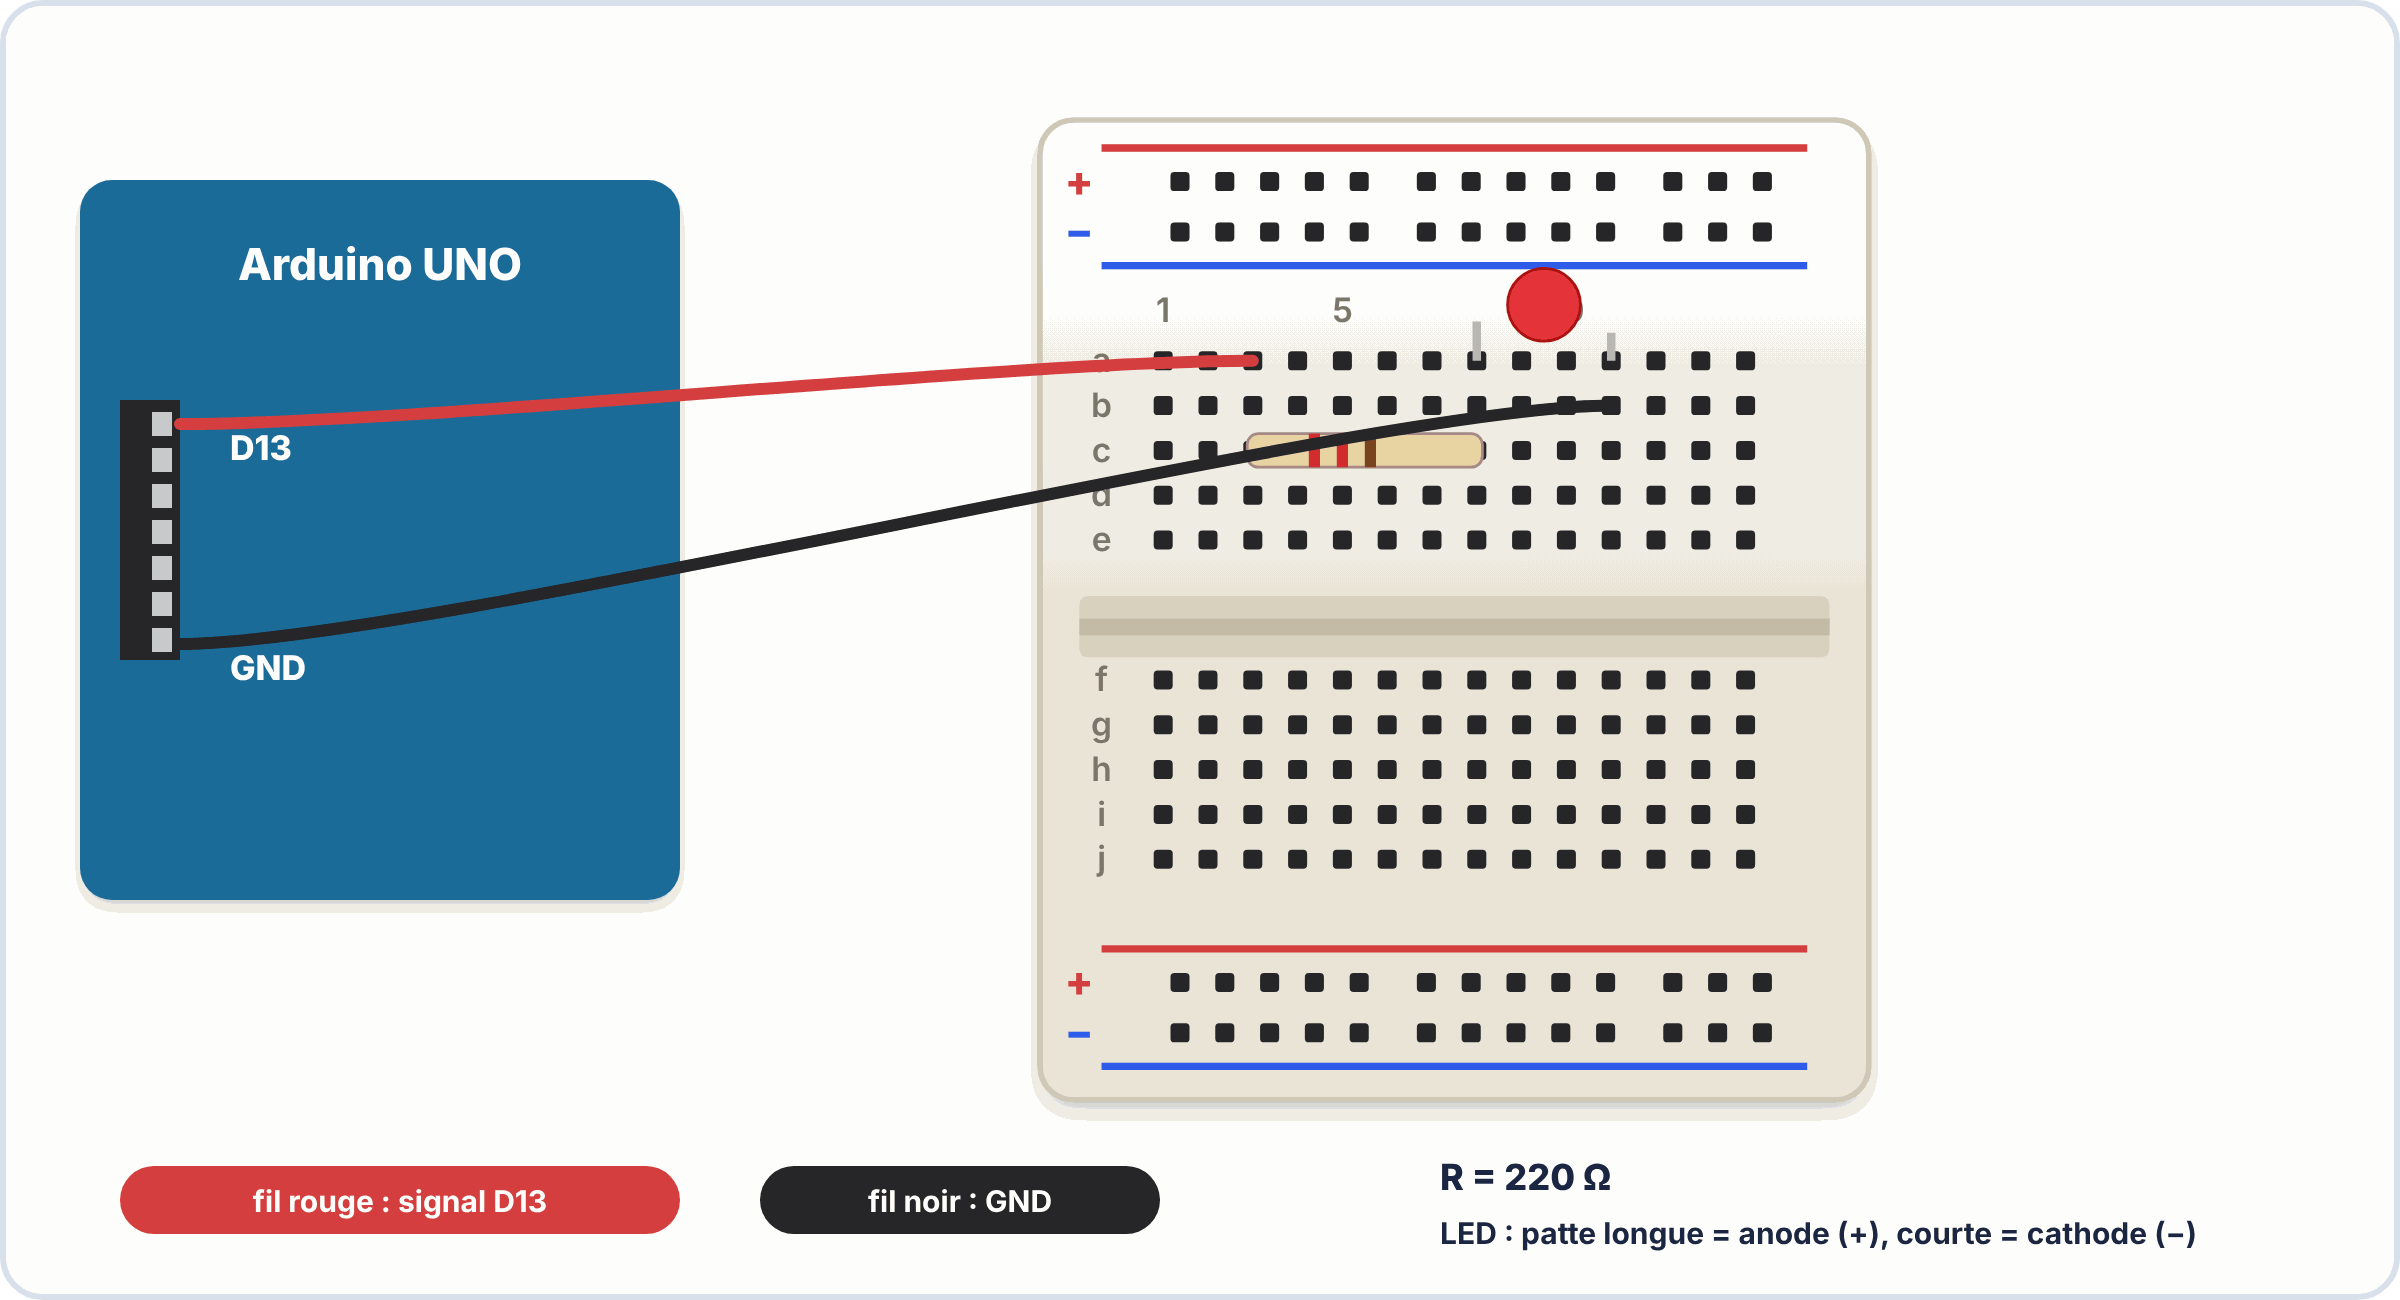
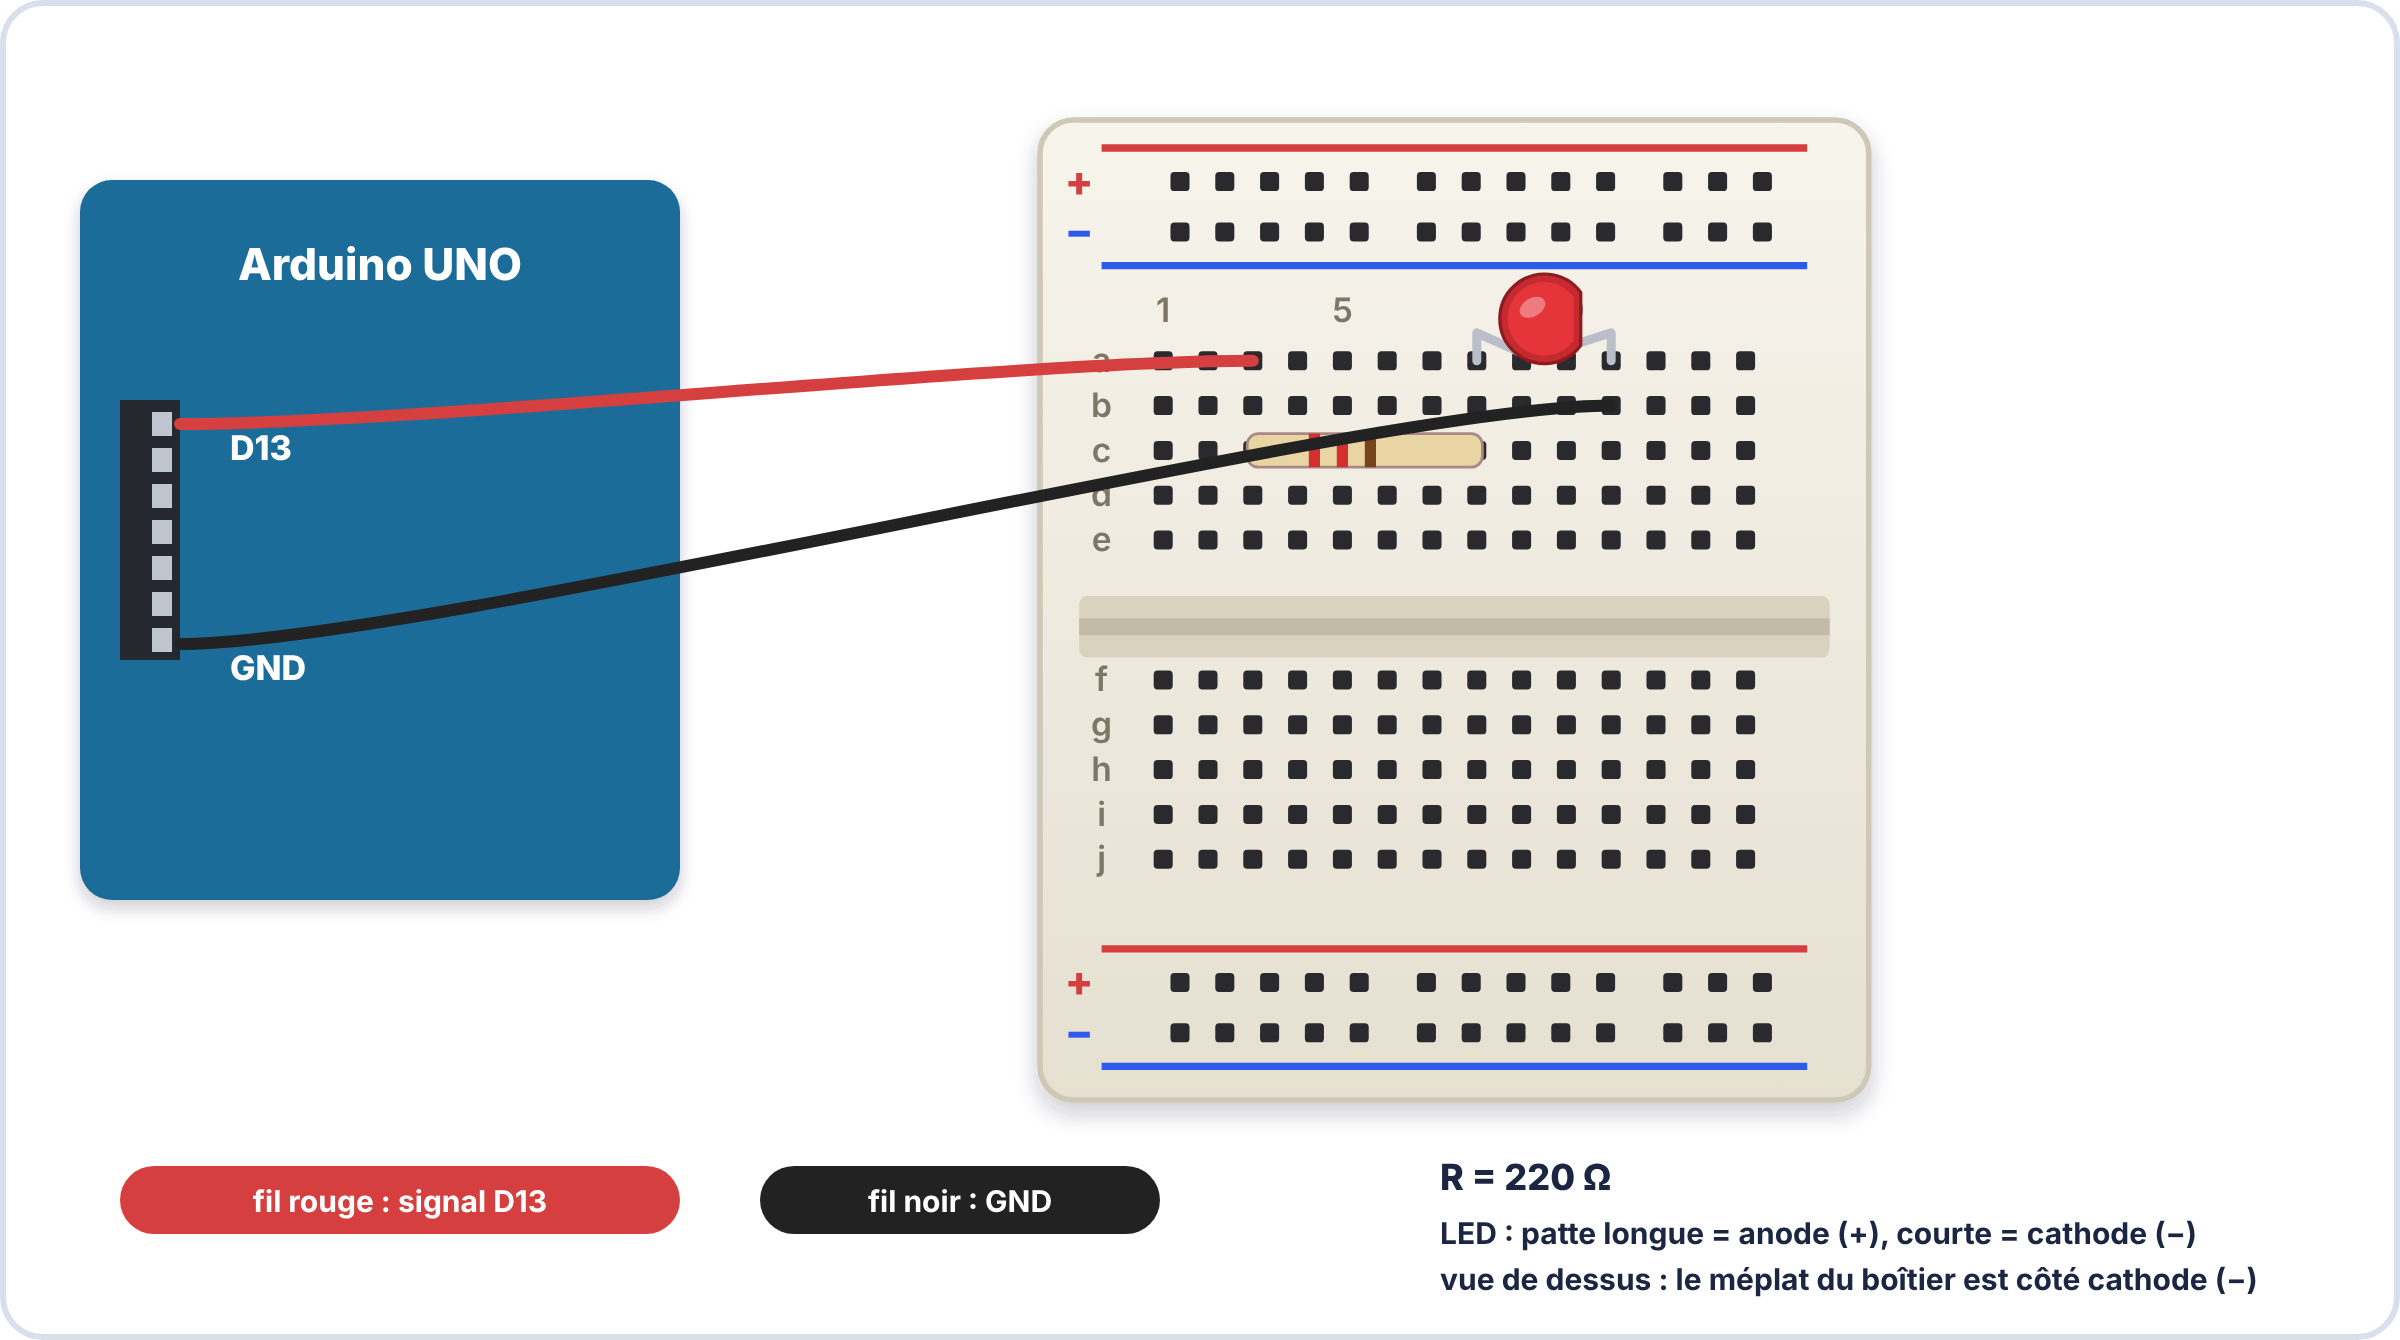
Platine d'essai : LED vue de dessus avec pattes solidaires du boîtier et méplat côté cathode
Claude-Session: https://claude.ai/code/session_018Ln2Xo12prChdSPrkdSn9D

diff --git a/outils/illustrations-e2/figs_sec5.py b/outils/illustrations-e2/figs_sec5.py
@@ -41,17 +41,7 @@ def f_cablage_ok_ko():
         def wire(p, q, col): return f'<path d="M{p[0]},{p[1]} L{q[0]},{q[1]}" stroke="{col}" stroke-width="5" stroke-linecap="round"/>'
         def res(p, q): return f'<rect x="{p[0]-2}" y="{p[1]-6}" width="{q[0]-p[0]+4}" height="12" rx="4" fill="#e9d4a3" stroke="#a88"/>' + f'<rect x="{p[0]+14}" y="{p[1]-6}" width="4" height="12" fill="#7a4320"/><rect x="{p[0]+24}" y="{p[1]-6}" width="4" height="12" fill="#000"/><rect x="{p[0]+34}" y="{p[1]-6}" width="4" height="12" fill="#7a4320"/>'
         def resv(p, q): return f'<rect x="{p[0]-6}" y="{p[1]-2}" width="12" height="{q[1]-p[1]+4}" rx="4" fill="#e9d4a3" stroke="#a88"/>' + ''.join(f'<rect x="{p[0]-6}" y="{p[1]+10+i*10}" width="12" height="4" fill="{c}"/>' for i, c in enumerate(("#7a4320", "#000", "#7a4320")))
-        def led(a, k):
-            cx = (a[0] + k[0]) / 2
-            by = min(a[1], k[1]) - 26          # base du boîtier
-            hw = 10                            # demi-largeur du boîtier
-            xa, xk = (cx - 6, cx + 6) if a[0] <= k[0] else (cx + 6, cx - 6)
-            ya, yk = a[1] - 8, k[1] - 8
-            legs = (f'<path d="M{a[0]},{a[1]} V{ya} L{xa},{by}" fill="none" stroke="#aaa" stroke-width="3" stroke-linecap="round" stroke-linejoin="round"/>'
-                    f'<path d="M{k[0]},{k[1]} V{yk} L{xk},{by}" fill="none" stroke="#aaa" stroke-width="3" stroke-linecap="round" stroke-linejoin="round"/>')
-            body = (f'<path d="M{cx-hw},{by} V{by-6} A{hw},{hw} 0 0 1 {cx+hw},{by-6} V{by} Z" fill="#e5353b" stroke="#a11" stroke-width="1.5"/>'
-                    f'<rect x="{cx-hw-2}" y="{by-2}" width="{2*hw+4}" height="4" rx="2" fill="#c42a30" stroke="#a11" stroke-width="1"/>')
-            return legs + body
+        led = led_top
         if ok:
             inner += wire(bb.rail(0, "T+"), xy(2, "a"), RED) + res(xy(2, "c"), xy(6, "c")) + led(xy(6, "a"), xy(9, "a")) + wire(xy(9, "b"), bb.rail(10, "T-"), "#111")
         else:

diff --git a/outils/illustrations-e2/figs_sec7.py b/outils/illustrations-e2/figs_sec7.py
@@ -57,14 +57,14 @@ def f_cablage_uno():
     r1, r2 = xy(3, "c"), xy(8, "c")
     inner += f'<rect x="{r1[0]-2}" y="{r1[1]-6}" width="{r2[0]-r1[0]+4}" height="12" rx="4" fill="#e9d4a3" stroke="#a88"/><rect x="{r1[0]+20}" y="{r1[1]-6}" width="4" height="12" fill="#d32f2f"/><rect x="{r1[0]+30}" y="{r1[1]-6}" width="4" height="12" fill="#d32f2f"/><rect x="{r1[0]+40}" y="{r1[1]-6}" width="4" height="12" fill="#7a4320"/>'
     a, k = xy(8, "a"), xy(11, "a")
-    inner += f'<path d="M{a[0]},{a[1]} V{a[1]-14} M{k[0]},{k[1]} V{k[1]-10}" stroke="#bbb" stroke-width="3"/><circle cx="{(a[0]+k[0])/2}" cy="{a[1]-20}" r="13" fill="#e5353b" stroke="#a11"/>'
+    inner += led_top(a, k)
     o += g(520, 60, inner, s)
     def wp(p, q, col): return f'<path d="M{p[0]},{p[1]} C{p[0]+120},{p[1]} {q[0]-120},{q[1]} {q[0]},{q[1]}" stroke="{col}" stroke-width="6" fill="none" stroke-linecap="round"/>'
     P0 = lambda p: (520 + p[0] * s, 60 + p[1] * s)
     o += wp((90, 212), P0(xy(3, "a")), RED) + wp((90, 322), P0(xy(11, "b")), "#222")
     o += callout(*P0(xy(5, "c")), 560, 560, "R = 220 Ω", "start", 17, bold=True) if False else ""
-    o += chip(200, 600, "fil rouge : signal D13", RED, w=280, size=15) + chip(480, 600, "fil noir : GND", "#222", w=200, size=15) + T(720, 595, "R = 220 Ω", 18, 800, INK, "start") + T(720, 622, "LED : patte longue = anode (+), courte = cathode (−)", 15, 700, INK, "start")
-    return figure(W, 650, o)
+    o += chip(200, 600, "fil rouge : signal D13", RED, w=280, size=15) + chip(480, 600, "fil noir : GND", "#222", w=200, size=15) + T(720, 595, "R = 220 Ω", 18, 800, INK, "start") + T(720, 622, "LED : patte longue = anode (+), courte = cathode (−)", 15, 700, INK, "start") + T(720, 645, "vue de dessus : le méplat du boîtier est côté cathode (−)", 15, 700, INK, "start")
+    return figure(W, 670, o)
 
 
 def f_serial_monitor():

diff --git a/outils/illustrations-e2/lib.py b/outils/illustrations-e2/lib.py
@@ -596,6 +596,22 @@ def u_arrow(x1, y1, x2, y2, label="", off=(0, -12), size=20, w=4):
     return o
 
 
+def led_top(a, k, lift=15):
+    """LED 5 mm sur platine, VUE DE DESSUS : boîtier rond dont le MÉPLAT (détrompeur) est côté cathode K ;
+    les pattes (anode a, cathode k) rejoignent le boîtier."""
+    import math as _m
+    cx, cy = (a[0] + k[0]) / 2, min(a[1], k[1]) - lift
+    ang = _m.degrees(_m.atan2(k[1] - a[1], k[0] - a[0]))
+    if abs(a[0] - k[0]) < 1: ea, ek = (cx - 5, cy + 10), (cx + 5, cy + 10)
+    else: ea, ek = (cx + (a[0] - cx) * .35, cy + 12), (cx + (k[0] - cx) * .35, cy + 10)
+    legs = "".join(f'<path d="M{p[0]},{p[1]} V{p[1]-10} L{e[0]},{e[1]}" fill="none" stroke="#b9bec8" stroke-width="3.2" stroke-linecap="round" stroke-linejoin="round"/>' for p, e in ((a, ea), (k, ek)))
+    rim = "M16,-11.5 A19.5,19.5 0 1 0 16,11.5 Z"
+    dome = "M13,-9.5 A16,16 0 1 0 13,9.5 Z"
+    body = (f'<g transform="translate({cx},{cy}) rotate({ang}) scale(.82)"><path d="{rim}" fill="#c42a30" stroke="#8f1a1f" stroke-width="1.4"/>'
+            f'<path d="{dome}" fill="#e5353b"/><ellipse cx="-5" cy="-5" rx="6" ry="4" fill="#fff" opacity=".35" transform="rotate(-30 -5 -5)"/></g>')
+    return legs + body
+
+
 def varrow_path(d, color=BLUE, w=4, dash=None):
     da = f' stroke-dasharray="{dash}"' if dash else ""
     return f'<path d="{d}" fill="none" stroke="{color}" stroke-width="{w}" stroke-linecap="round" stroke-linejoin="round" marker-end="url(#arr)"{da}/>'
